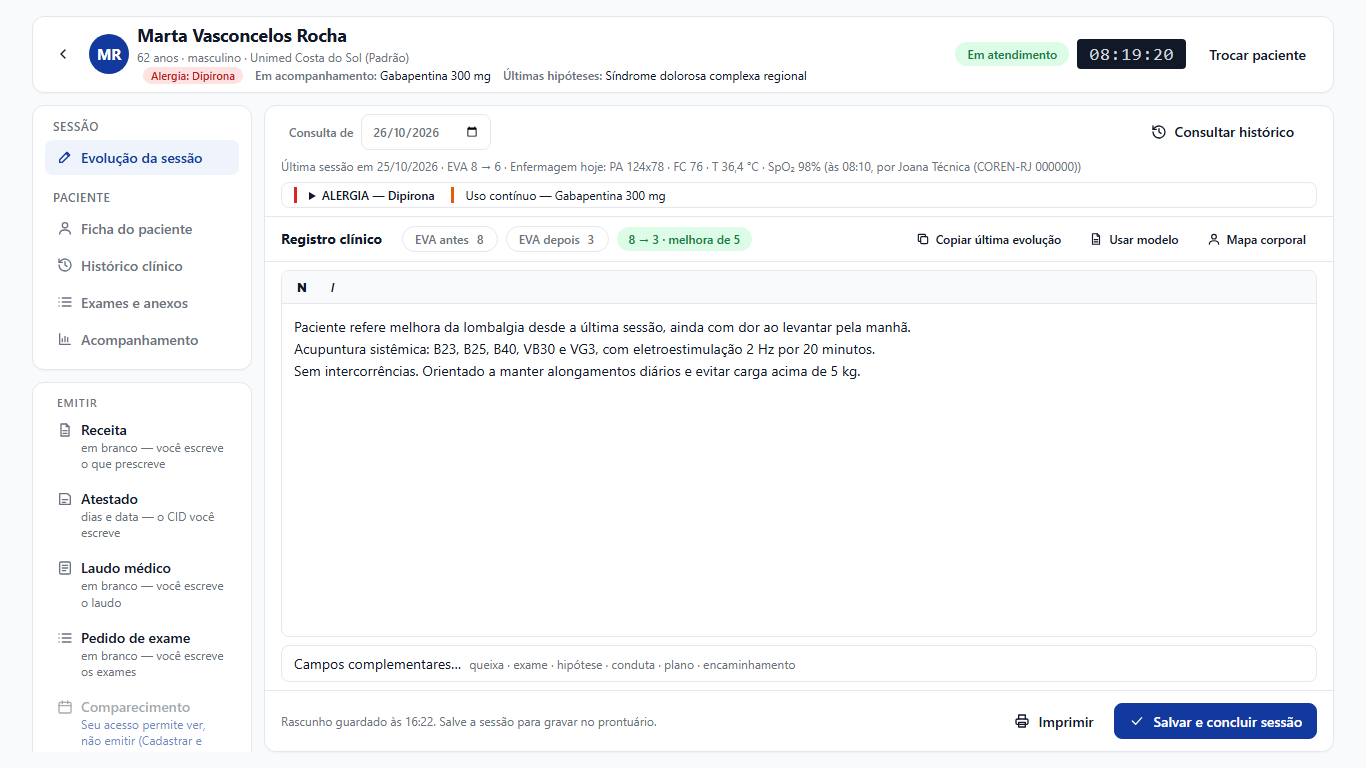
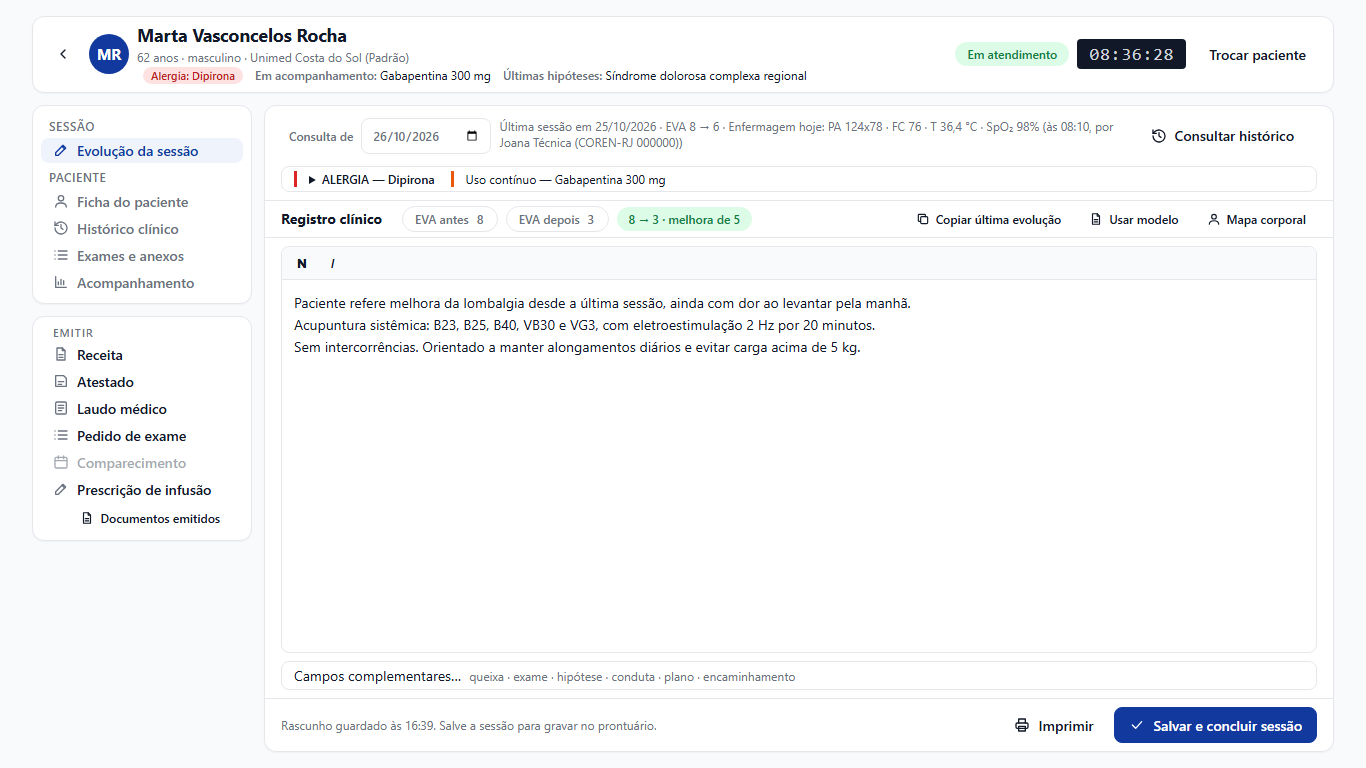
Folha do médico: nada escondido no notebook, nem em dia cheio
No notebook da clínica a coluna da esquerda rolava por dentro e a Prescrição de infusão e
"Documentos emitidos" ficavam abaixo da borda, sem sinal — parecia que faltavam. Medido sem
rolar, na altura que SOBRA no app (~570 px em 1280×720) e em dia cheio:
- o EMITIR fica compacto em janela baixa (um documento por linha, a explicação na dica) e o rail
  também, e cabem inteiros;
- o termo pendente vai para a linha de avisos da folha (é aviso que pede ação) e o "Já saiu
  hoje" vai para o rodapé, recolhido, abrindo por cima;
- data, contexto e "Consultar histórico" numa linha; barras e rodapé mais baixos: a área de
  escrita passa a ~174 px no notebook, na largura toda;
- o piso da caixa de texto mora no contêiner (no texto ele não segurava e a caixa encolhia a
  uma linha em janela estreita), e a janela estreita também cabe na altura;
- tools/PreviaBlazor/conferir-folha.js mede o que fica escondido em cada tamanho.

diff --git a/src/Clinica.Ui.Blazor/Ativos/css/telas/atendimento.css b/src/Clinica.Ui.Blazor/Ativos/css/telas/atendimento.css
@@ -8,6 +8,9 @@
 .at-titulo{margin:0;font-size:var(--text-h3-size);font-weight:700}
 .at-cabecalho p{margin:var(--space-1) 0 0}
 .at-contexto{margin:0;padding:0 var(--space-4) var(--space-3);color:var(--texto-secundario);font-size:var(--text-small-size);overflow-wrap:anywhere}
+/* Dentro do cabeçalho (entre a data e o histórico), o contexto ocupa o meio e quebra se precisar. */
+.at-cabecalho{align-items:center}
+.at-cabecalho .at-contexto{flex:1 1 320px;min-width:0;padding:0}
 
 /* Os avisos: UMA superfície, uma linha por aviso, cor no traço — o peso segue a GRAVIDADE. */
 .at-avisos{display:flex;flex-direction:column;gap:var(--space-1);margin:0 var(--space-4) var(--space-3);padding:var(--space-2) var(--space-3);
@@ -151,7 +154,7 @@
 
 /* Na folha do médico com a tela na altura da janela (tela-paciente.css): a folha ocupa o resto da
    altura e o EDITOR leva o que sobra — rola por dentro, e a página não rola. */
-@media (min-width:1101px) and (min-height:560px){
+@media (min-height:500px){
   .na-folha .at-folha-pagina{flex:1 1 auto;min-height:0;grid-template-rows:minmax(0,1fr);align-items:stretch}
   .na-folha .at-coluna-folha{min-height:0}
   /* Rola por DENTRO quando a janela é baixa demais para o piso do editor: cortar seria pior. O
@@ -159,14 +162,48 @@
   .na-folha .at-coluna-folha > .cartao{flex:1 1 auto;min-height:0;display:flex;flex-direction:column;overflow-y:auto}
   .na-folha .at-cabecalho{padding-top:var(--space-2);padding-bottom:var(--space-2)}
   .na-folha .at-registro{flex:1 1 auto;min-height:0}
-  .na-folha .at-editor{flex:1 1 auto;min-height:0;display:flex;flex-direction:column;padding-top:var(--space-2);padding-bottom:var(--space-2)}
+  /* O PISO da caixa de texto mora no contêiner: com min-height:0 nos elos de dentro, um piso só no
+     texto não segurava nada e a caixa encolhia a uma linha. Faltando altura, o cartão rola por dentro. */
+  .na-folha .at-editor{flex:1 0 auto;min-height:13em;display:flex;flex-direction:column;padding-top:var(--space-2);padding-bottom:var(--space-2)}
   .na-folha .at-editor .editor-clinico{flex:1 1 auto;min-height:0}
   /* O mínimo em LINHAS do componente vira um piso pequeno: aqui quem decide a altura é a janela. */
-  .na-folha .at-editor .editor-texto{flex:1 1 auto;min-height:10em !important;overflow-y:auto}
-  .na-folha .at-detalhe{margin-bottom:var(--space-2)}
+  .na-folha .at-editor .editor-texto{flex:1 1 auto;min-height:0 !important;overflow-y:auto}
+  .na-folha .at-detalhe{margin-bottom:var(--space-2);padding-top:var(--space-1);padding-bottom:var(--space-1)}
+  .na-folha .at-rodape{padding-top:var(--space-2);padding-bottom:var(--space-2)}
+  .na-folha .at-registro-barra{padding-top:var(--space-1);padding-bottom:var(--space-1)}
   /* Os avisos numa linha só (alergia · uso contínuo · …): empilhados, comiam a altura do texto. */
   .na-folha .at-avisos{flex-direction:row;flex-wrap:wrap;gap:var(--space-1) var(--space-4);padding:var(--space-1) var(--space-3);margin-bottom:var(--space-2)}
   .na-folha .at-contexto{padding-bottom:var(--space-2)}
   .na-folha .at-personalizados{flex:none;max-height:30%;overflow-y:auto}
   .na-folha .at-coluna-lado{min-height:0;overflow-y:auto}
+}
+
+/* "Já saiu hoje" no rodapé da folha: um botão que abre a lista POR CIMA (o rodapé é o pé da tela). */
+.at-saiu-hoje{position:relative}
+.at-saiu-hoje summary{list-style:none;cursor:pointer}
+.at-saiu-hoje summary::-webkit-details-marker{display:none}
+.at-saiu-hoje[open] .at-saiu{position:absolute;right:0;bottom:calc(100% + var(--space-1));z-index:2;min-width:340px;max-height:50vh;overflow-y:auto;
+  padding:var(--space-2) var(--space-3);border:1px solid var(--borda);border-radius:var(--radius-control);background:var(--superficie);box-shadow:var(--sombra-cartao)}
+.at-aviso .at-termo{width:auto}
+
+/* Janela BAIXA (o notebook de 1280×720: ~570 px sobram para a tela no app): o EMITIR inteiro à
+   vista debaixo do rail — um documento por linha, só ícone e nome; a explicação vai para a dica
+   (title) do botão. Com a explicação embaixo, a infusão e o "Documentos emitidos" caíam abaixo da
+   borda da coluna, e parecia que faltavam. Em janela alta a explicação volta. */
+@media (min-width:1101px) and (max-height:860px){
+  .na-folha .at-emitir{padding:var(--space-2)}
+  .na-folha .at-papel{align-items:center;padding:3px var(--space-3)}
+  .na-folha .at-papel svg.icone{grid-row:auto;margin-top:0}
+  .na-folha .at-papel span{display:none}
+}
+
+/* Janela ESTREITA (o rail vira régua por cima da seção): o EMITIR vira uma faixa de botões lado a
+   lado — uma lista alta ali empurraria a folha e o Salvar para fora da tela. */
+@media (max-width:1100px){
+  .at-emitir{flex-direction:row;flex-wrap:wrap;align-items:center;gap:var(--space-1) var(--space-2);padding:var(--space-2) var(--space-3)}
+  .at-emitir .at-lado-titulo{padding:0;margin-right:var(--space-2)}
+  .at-papel{width:auto;align-items:center;padding:var(--space-1) var(--space-2)}
+  .at-papel svg.icone{grid-row:auto;margin-top:0}
+  .at-papel span{display:none}
+  .at-emitir .at-emitir-acoes{flex-basis:100%;padding:0}
 }

diff --git a/tools/PreviaBlazor/conferir-folha.js b/tools/PreviaBlazor/conferir-folha.js
@@ -1,0 +1,75 @@
+// Confere, SEM ROLAR NADA, se cada coisa da folha do médico está à vista: dentro da janela e não
+// recortada por nenhum contêiner com rolagem — e se a caixa de texto tem altura para escrever.
+// Com a prévia no ar (/atendimento-medico): node tools/PreviaBlazor/conferir-folha.js <larg> <alt> [estresse]
+// O notebook da clínica (1280×720) deixa ~570 px para a tela no app: confira 1280 570 e 1280 570 estresse.
+// "estresse" acrescenta à coluna do EMITIR o que aparece em dia cheio: o botão do termo pendente,
+// os botões de BSV e três papéis em "Já saiu hoje" — é o caso que mais cresce a coluna.
+const { chromium } = require('playwright');
+const [,, larg, alt, modo] = process.argv;
+const alvos = [
+  ['Receita', 'button.at-papel', 'Receita'],
+  ['Atestado', 'button.at-papel', 'Atestado'],
+  ['Laudo médico', 'button.at-papel', 'Laudo médico'],
+  ['Pedido de exame', 'button.at-papel', 'Pedido de exame'],
+  ['Comparecimento', 'button.at-papel', 'Comparecimento'],
+  ['Prescrição de infusão', 'button.at-papel', 'Prescrição de infusão'],
+  ['Documentos emitidos', 'button', 'Documentos emitidos'],
+  ['Termo pendente (estresse)', 'button.at-termo', ''],
+  ['Já saiu hoje (estresse)', '.at-saiu-hoje summary', ''],
+  ['Consultar histórico', 'button', 'Consultar histórico'],
+  ['Data da consulta', '.at-consulta input', ''],
+  ['EVA antes', 'select[aria-label="EVA antes"]', ''],
+  ['EVA depois', 'select[aria-label="EVA depois"]', ''],
+  ['Copiar última evolução', 'button', 'Copiar última evolução'],
+  ['Usar modelo', 'button', 'Usar modelo'],
+  ['Mapa corporal', 'button', 'Mapa corporal'],
+  ['Caixa de texto', '.at-editor .editor-texto', ''],
+  ['Campos complementares', 'button.at-detalhe', ''],
+  ['Imprimir', 'button', 'Imprimir'],
+  ['Salvar e concluir sessão', 'button', 'Salvar e concluir sessão'],
+  ['Trocar paciente', 'button', 'Trocar paciente'],
+];
+(async () => {
+  const b = await chromium.launch();
+  const p = await b.newPage({ viewport: { width: +larg, height: +alt }, locale: 'pt-BR' });
+  await p.goto('http://127.0.0.1:5199/atendimento-medico');
+  await p.waitForSelector('.at-registro', { timeout: 30000 });
+  await p.waitForTimeout(1500);
+  if (modo === 'estresse') {
+    await p.evaluate(() => {
+      const e = document.querySelector('.at-emitir');
+      const acoes = e.querySelector('.at-emitir-acoes');
+      const bsv = document.createElement('button'); bsv.className = 'botao mini'; bsv.textContent = 'Novo paciente de BSV';
+      acoes.appendChild(bsv);
+      const avisos = document.querySelector('.at-avisos');
+      avisos.insertAdjacentHTML('afterbegin', '<div class="at-aviso grave"><button class="botao mini contorno-perigo at-termo">Colher termo do procedimento</button></div>');
+      document.querySelector('.at-rodape .botoes-linha').insertAdjacentHTML('afterbegin', '<details class="at-saiu-hoje"><summary class="botao fantasma">Já saiu hoje (3)</summary><ul class="at-saiu"><li>Receita 2026/0101</li></ul></details>');
+    });
+    await p.waitForTimeout(300);
+  }
+  const resultado = await p.evaluate((alvos) => {
+    const vis = el => {
+      const r = el.getBoundingClientRect();
+      if (r.width === 0 || r.height === 0) return 'sem tamanho';
+      if (r.top < 0 || r.bottom > innerHeight + 0.5 || r.left < 0 || r.right > innerWidth + 0.5) return 'fora da janela';
+      for (let a = el.parentElement; a; a = a.parentElement) {
+        const s = getComputedStyle(a);
+        if (/(auto|scroll|hidden)/.test(s.overflowY + s.overflowX)) {
+          const ra = a.getBoundingClientRect();
+          if (r.top < ra.top - 0.5 || r.bottom > ra.bottom + 0.5) return 'escondido pela rolagem de ' + (a.className || a.tagName);
+        }
+      }
+      return 'ok';
+    };
+    return alvos.map(([nome, sel, texto]) => {
+      const el = [...document.querySelectorAll(sel)].find(x => !texto || x.textContent.includes(texto));
+      return [nome, el ? vis(el) : 'não existe'];
+    });
+  }, alvos);
+  const alturaTexto = await p.evaluate(() => Math.round(document.querySelector('.at-editor .editor-texto').getBoundingClientRect().height));
+  if (alturaTexto < 180) resultado.push(['Caixa de texto com altura útil', `só ${alturaTexto}px`]);
+  const rolaPagina = await p.evaluate(() => [...document.querySelectorAll('.palco-tela')].map(x => x.scrollHeight > x.clientHeight + 1));
+  console.log(`${larg}x${alt}${modo ? ' ' + modo : ''} — a página rola: ${rolaPagina[0] ? 'SIM' : 'não'}`);
+  for (const [n, r] of resultado) if (!(r === 'não existe' && n.includes('estresse'))) console.log((r === 'ok' ? '  ok   ' : '  FALHA ') + n + (r === 'ok' ? '' : ' — ' + r));
+  await b.close();
+})();

diff --git a/src/Clinica.Ui.Blazor/Ativos/css/telas/tela-paciente.css b/src/Clinica.Ui.Blazor/Ativos/css/telas/tela-paciente.css
@@ -56,7 +56,23 @@
 .tela-paciente.na-folha .tp-nome{font-size:var(--text-h3-size)}
 .tela-paciente.na-folha .tp-origem{display:none}
 .tela-paciente.na-folha .tp-contexto{margin-top:0}
-@media (min-width:1101px) and (min-height:560px){
+/* Idade · convênio e o contexto clínico (alergia, acompanhamento) numa linha só, debaixo do nome. */
+.tela-paciente.na-folha .tp-identidade{flex-direction:row;flex-wrap:wrap;align-items:center;column-gap:var(--space-3)}
+.tela-paciente.na-folha .tp-nome{flex-basis:100%}
+/* Janela baixa: o rail compacto, para o EMITIR caber inteiro logo abaixo dele. */
+@media (min-width:1101px) and (max-height:860px){
+  .tela-paciente.na-folha .tp-rail{padding:var(--space-2)}
+  .tela-paciente.na-folha .tp-secao{padding:3px var(--space-3)}
+  .tela-paciente.na-folha .tp-grupo{margin:var(--space-1) 0 2px var(--space-2)}
+}
+/* Janela estreita: o rail é uma régua por cima da seção, e a seção leva o resto da altura. */
+@media (max-width:1100px) and (min-height:500px){
+  .tela-paciente.na-folha{height:100%;padding-top:var(--space-3);padding-bottom:var(--space-3);gap:var(--space-2)}
+  .tela-paciente.na-folha .tp-corpo{flex:1 1 auto;min-height:0;grid-template-rows:auto minmax(0,1fr);gap:var(--space-2);align-items:stretch}
+  .tela-paciente.na-folha .tp-coluna-esquerda{gap:var(--space-2)}
+  .tela-paciente.na-folha .tp-secao-corpo{min-height:0}
+}
+@media (min-width:1101px) and (min-height:500px){
   .tela-paciente.na-folha{height:100%;padding-top:var(--space-4);padding-bottom:var(--space-4);gap:var(--space-3)}
   .tela-paciente.na-folha .tp-corpo{flex:1 1 auto;min-height:0;grid-template-rows:minmax(0,1fr);align-items:stretch}
   .tela-paciente.na-folha .tp-coluna-esquerda{position:static;min-height:0;overflow-y:auto}

diff --git a/docs/agentes/convencoes.md b/docs/agentes/convencoes.md
@@ -5295,3 +5295,14 @@ Procure a palavra da área (`grep -n "palavra" docs/agentes/convencoes.md`) e le
   a janela é baixa demais (cortar seria pior), com o rodapé sticky. Abaixo de 560 px de altura ou de
   1101 de largura volta a rolagem de página. ⚠ A PRÉVIA rola o `body`, não um palco: a página
   `/atendimento-medico` embrulha a `Raiz` num `.palco-tela`, senão a foto mostraria outra coisa.
+  ⛔ **E "cabe na janela" se mede pelo que ficou ESCONDIDO, não pela caixa que cresceu** (a cliente
+  achou "falta a infusão": o EMITIR rolava por dentro da coluna e a infusão estava abaixo da borda,
+  sem sinal nenhum). Três erros meus de método, e a regra de cada um: (1) **a altura de projeto é a
+  que SOBRA no app** — 1280×720 menos barra de tarefas, título da janela e o topo da moldura (68 px)
+  dá ~570, não os 680 que fotografei; (2) **o dia CHEIO é o caso de projeto** — termo pendente, BSV e
+  "Já saiu hoje" crescem a coluna, e por isso o termo foi para a linha de avisos da folha e o "Já saiu
+  hoje" para o rodapé, recolhido; (3) **"visível" não basta, a caixa precisa de ALTURA ÚTIL** — com
+  `min-height:0` nos elos de dentro, o piso posto no texto não segurava e a caixa encolheu a uma
+  linha; o piso mora no contêiner (`.at-editor`). `tools/PreviaBlazor/conferir-folha.js` mede tudo
+  isso sem rolar nada (à vista, não recortado, texto ≥ 180 px) em cada tamanho, normal e dia cheio:
+  rode-o antes de mandar foto.
